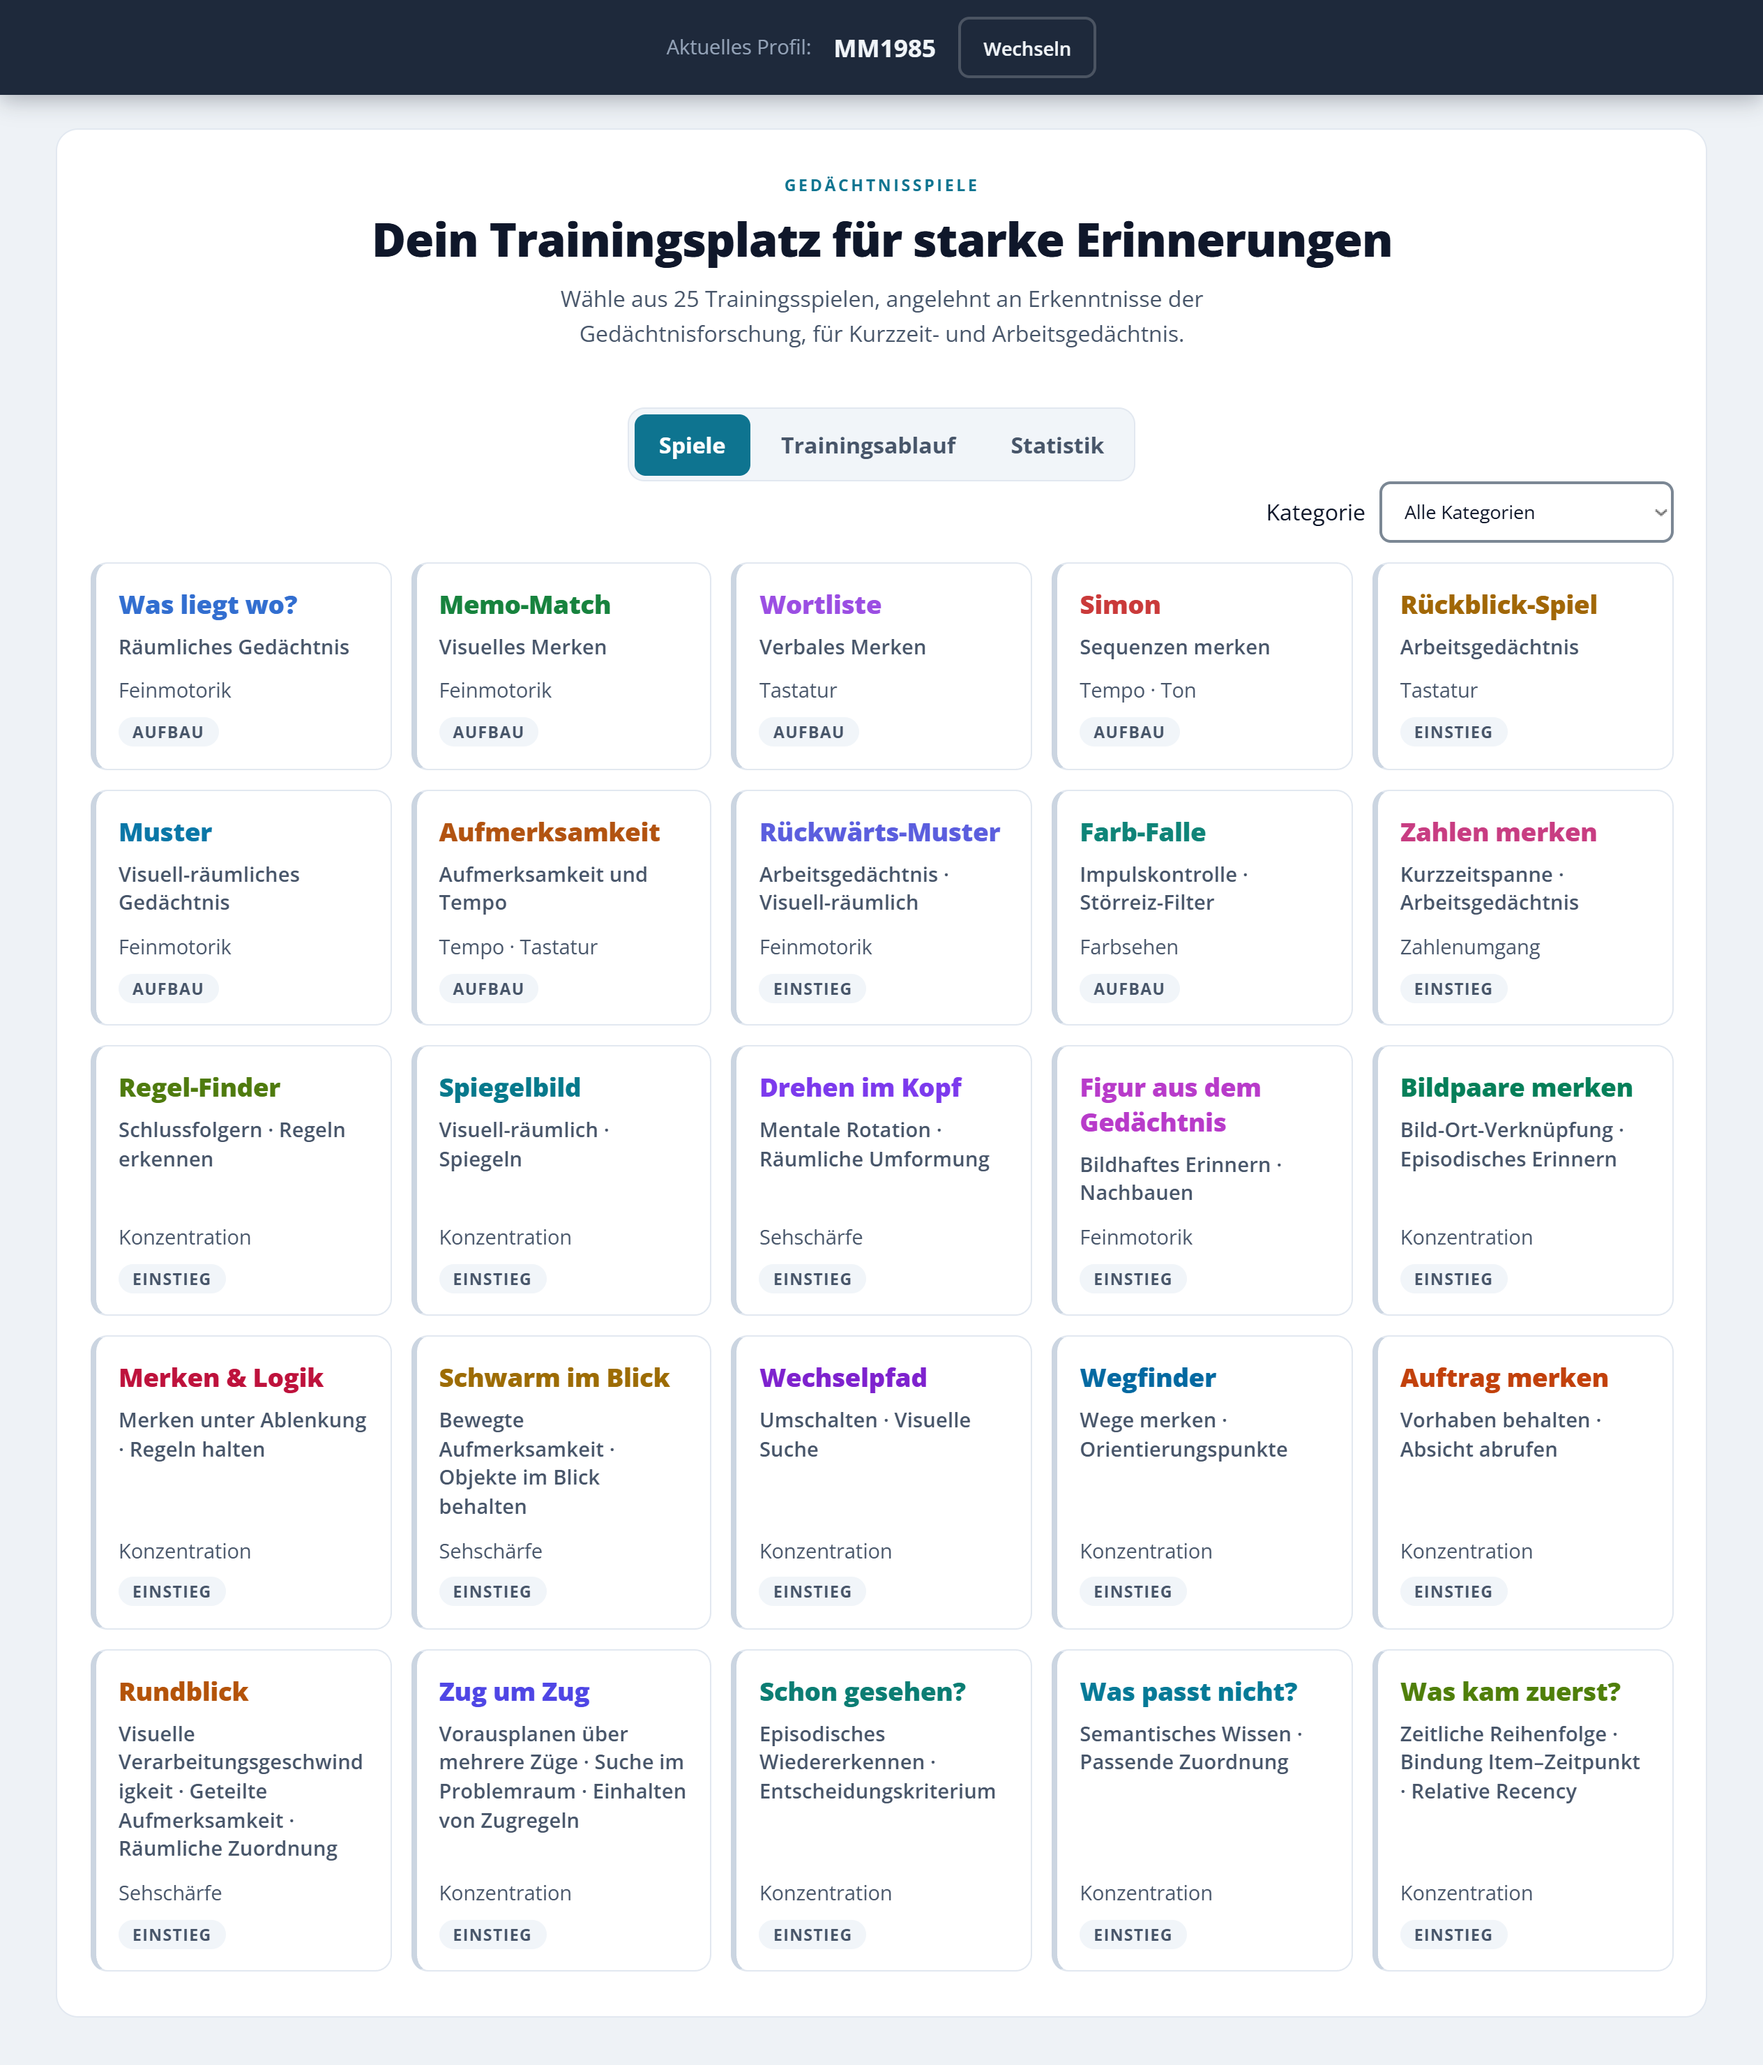
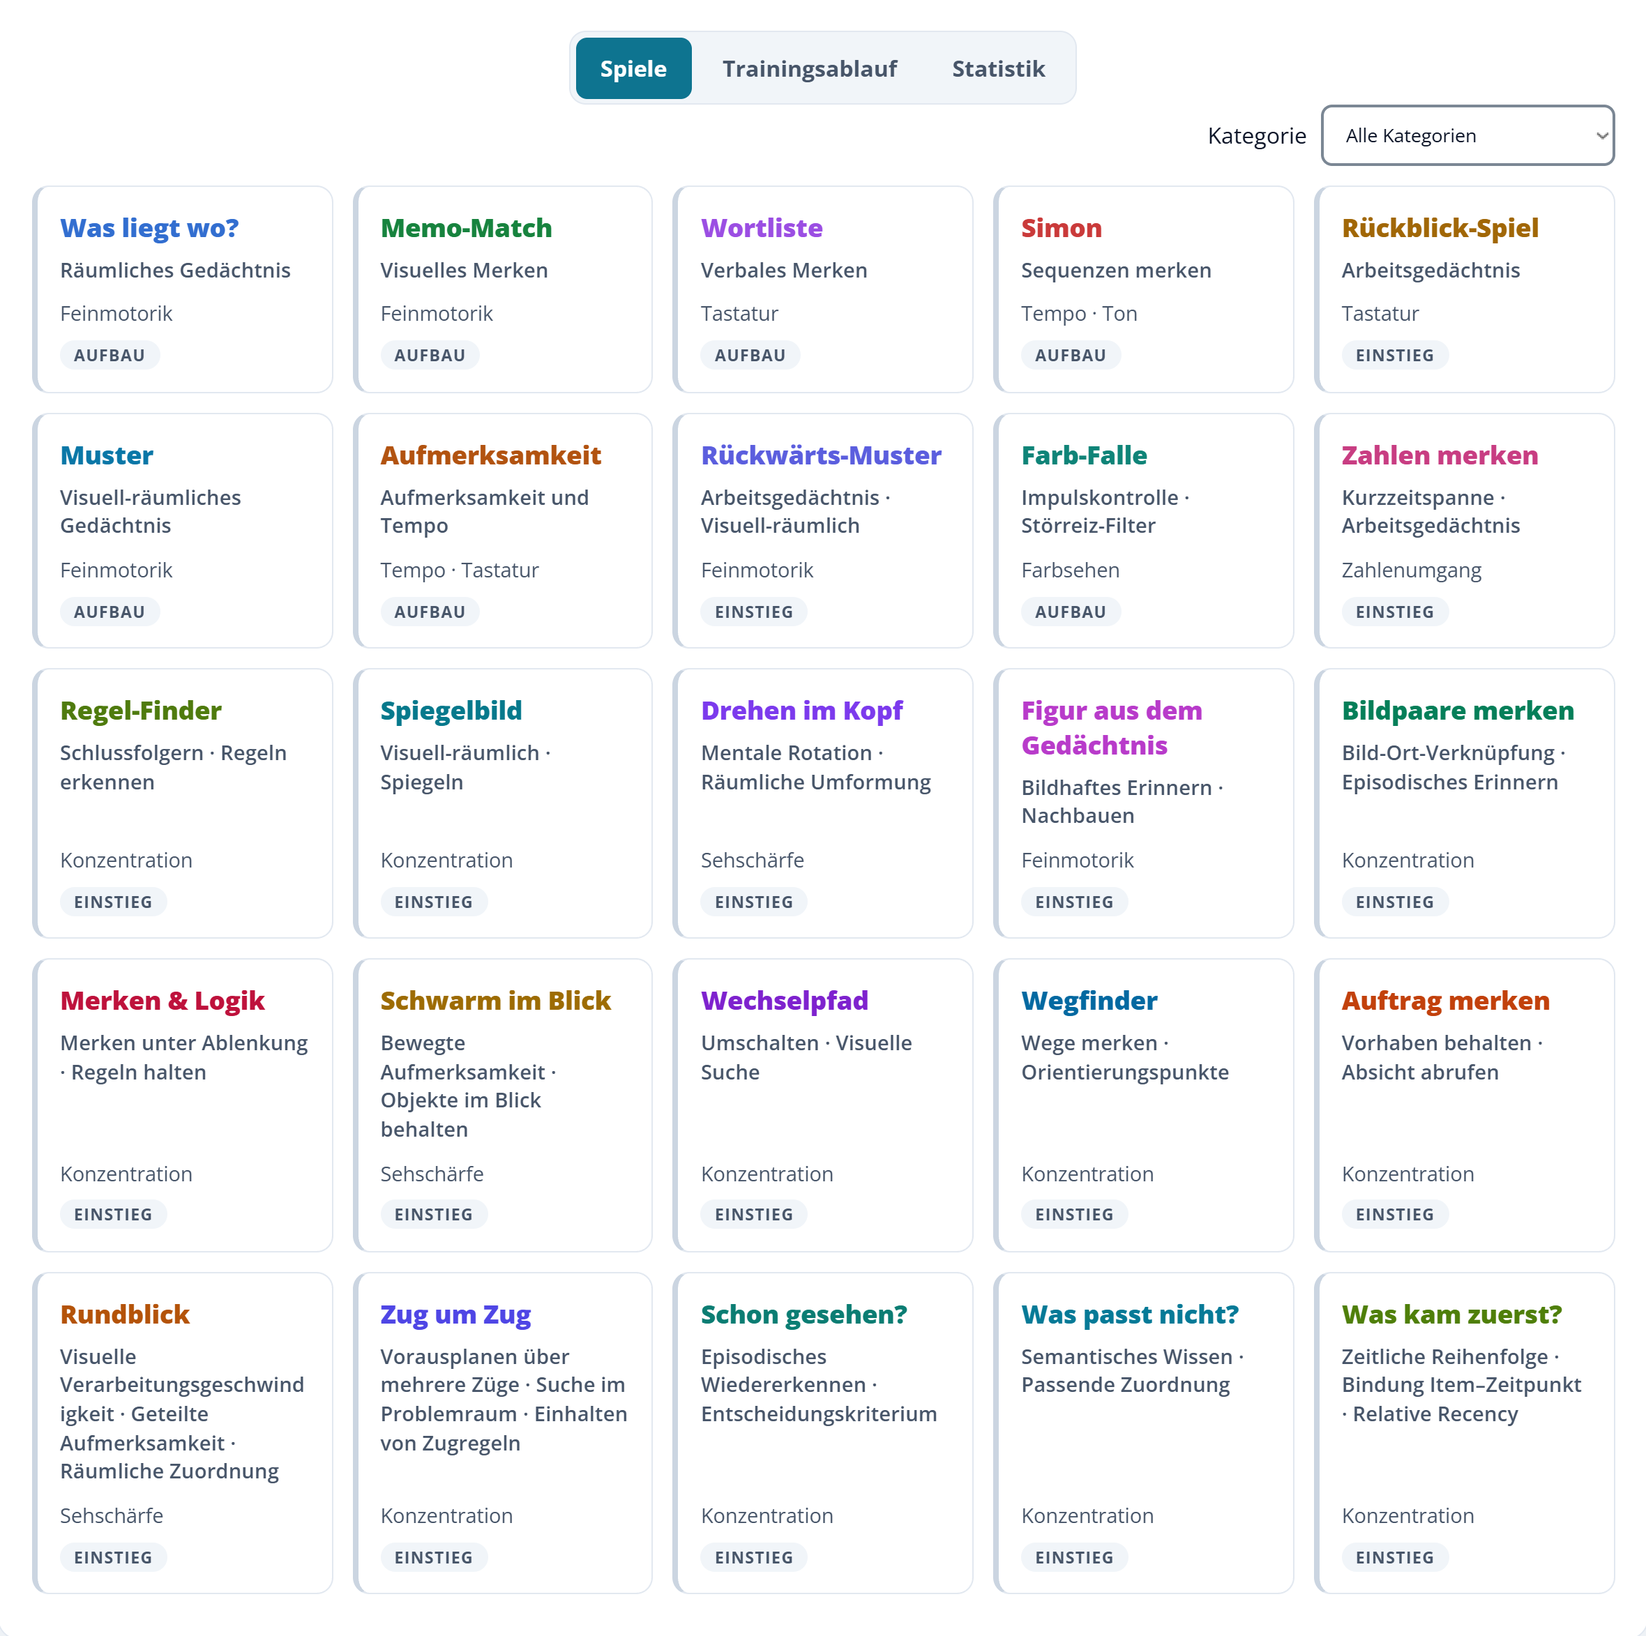
Pilot: Lesetests auf den Dienst nach S3, IP-Frist präzise, Katalogbild ohne Profil
- P13/P13b gegen den Stand nach S3: Anpassungsregel (4. Kalenderjahr),
  Ratenbegrenzer eine Stunde, Pfaderkennung in pfade.ts
- Datenschutz, Pilotabschnitt: "nur kurzzeitig" -> "spätestens eine
  Stunde nach deiner letzten Anfrage" (T1 v3, Befund RS1 Sol N1)
- app-katalog.webp auf den Übungskatalog zugeschnitten: ohne Profilleiste
  ("MM1985" wirkte wie Kürzel + Geburtsjahr) und ohne altes App-Motto

Tests und Text: Gemini 3.8 Flash (isolierte Kopie), nachgeprüft.

Claude-Session: https://claude.ai/code/session_013UXp1qRCN6pCExpjyb6o4P

Changed region(s): [[0.0, 0.0, 1.0, 0.9646], [0.0, 0.1245, 0.1547, 0.2178], [0.5258, 0.6223, 0.5568, 0.6535]]

diff --git a/src/constants.ts b/src/constants.ts
@@ -506,7 +506,7 @@ export const STATS_FEATURES: StatsFeature[] = [
    zugleich pixelgenau gleich. Die Masse stehen dabei, damit beim Nachladen
    nichts springt. */
 
-export const SHOT_KATALOG = { width: 2528, height: 2960 };
+export const SHOT_KATALOG = { width: 2360, height: 2346 };
 export const SHOT_VERLAUF = { width: 2422, height: 868 };
 export const SHOT_RADAR = { width: 2422, height: 1148 };
 export const SHOT_VORFUEHRUNG = { width: 2040, height: 1719 };
@@ -1062,11 +1062,11 @@ export const PRIVACY_SECTIONS: PrivacySection[] = [
     id: 'pilotprogramm',
     title: 'Pilotprogramm für Praxen und Einrichtungen',
     paragraphs: [
-      '**Bewerbung.** Wenn du dich über rholabs.de/pilotpartner bewirbst, verarbeiten wir den Namen deiner Praxis oder Einrichtung, die Art der Einrichtung, deine Angaben zu den Personengruppen, mit denen du arbeitest, und zum geplanten Einsatz, den Namen der Ansprechperson, ihre geschäftliche E-Mail-Adresse und, wenn du sie angibst, eine Telefonnummer für Rückfragen zur Bewerbung. Die Pflichtfelder brauchen wir, um die Bewerbung zu bearbeiten; ohne sie können wir sie nicht annehmen. Deine IP-Adresse speichern wir dabei nicht; sie wird nur kurzzeitig im Arbeitsspeicher genutzt, um massenhafte Anfragen abzuwehren. Wir erhalten eine E-Mail-Benachrichtigung, dass eine Bewerbung eingegangen ist; die Bewerbung selbst steht nicht darin. Eine automatische E-Mail an dich verschicken wir nicht. Bitte mache im Freitext keine Angaben zu einzelnen Personen, die du betreust, und keine Angaben zu Gesundheit oder Diagnosen. Enthält eine Bewerbung solche Angaben dennoch, löschen wir sie und teilen dir das mit.',
+      '**Bewerbung.** Wenn du dich über rholabs.de/pilotpartner bewirbst, verarbeiten wir den Namen deiner Praxis oder Einrichtung, die Art der Einrichtung, deine Angaben zu den Personengruppen, mit denen du arbeitest, und zum geplanten Einsatz, den Namen der Ansprechperson, ihre geschäftliche E-Mail-Adresse und, wenn du sie angibst, eine Telefonnummer für Rückfragen zur Bewerbung. Die Pflichtfelder brauchen wir, um die Bewerbung zu bearbeiten; ohne sie können wir sie nicht annehmen. Deine IP-Adresse speichern wir dabei nicht; sie wird nur im Arbeitsspeicher genutzt, um massenhafte Anfragen abzuwehren, und dort spätestens eine Stunde nach deiner letzten Anfrage verworfen. Wir erhalten eine E-Mail-Benachrichtigung, dass eine Bewerbung eingegangen ist; die Bewerbung selbst steht nicht darin. Eine automatische E-Mail an dich verschicken wir nicht. Bitte mache im Freitext keine Angaben zu einzelnen Personen, die du betreust, und keine Angaben zu Gesundheit oder Diagnosen. Enthält eine Bewerbung solche Angaben dennoch, löschen wir sie und teilen dir das mit.',
       'Rechtsgrundlage ist Art. 6 Abs. 1 lit. b DSGVO, soweit du selbst Vertragspartei werden würdest (etwa als Inhaberin oder Inhaber einer Praxis), im Übrigen Art. 6 Abs. 1 lit. f DSGVO; unser berechtigtes Interesse ist die Auswahl und Durchführung des Pilotprogramms.',
       '**Teilnahme.** Wählen wir deine Einrichtung aus, senden wir der Ansprechperson einen persönlichen Link, über den sie die Pilotbedingungen annimmt. Wir speichern dazu die Fassung der Bedingungen und deren Prüfsumme, den Zeitpunkt, die Angaben des Angebots (Einrichtung, rechtlicher Träger mit Anschrift, geplanter Pilotstart, Gerätezahl), Name, Funktion und E-Mail-Adresse der zustimmenden Person, ihre Bestätigungen, für den Träger handeln zu dürfen und dass dieser nicht als Verbraucher handelt, sowie ihre Wahl, ob sie wöchentliche Fragen per E-Mail erhalten möchte — keine IP-Adresse. Anschließend erhält sie per E-Mail eine Bestätigung mit den Pilotbedingungen. Zur Durchführung speichern wir außerdem Status, Pilotzeitraum, Lizenzschlüssel, die erste Aktivierung, organisatorische Notizen (ohne Angaben zu betreuten Personen), die vereinbarte Anpassung und ob ein Abschlussfeedback vorliegt. Für die Pilotlizenz gelten die Angaben im Abschnitt „Lizenzaktivierung der Anwendung“.',
       'Rechtsgrundlage ist Art. 6 Abs. 1 lit. b DSGVO, soweit du selbst Vertragspartei bist. Für Beschäftigte und andere Ansprechpersonen eines teilnehmenden Trägers ist es Art. 6 Abs. 1 lit. f DSGVO; unsere berechtigten Interessen sind die Kommunikation mit dem Träger, die Durchführung des Pilotprogramms und der Nachweis des Vertragsschlusses.',
-      '**Aufruf der Pilotseiten.** Die Pilotseite lädt nichts von Dritten nach. Mit unserem Auslieferungsdienst verbindet sich dein Browser, sobald du die Bewerbung absendest. Die Seite zum Bestätigen der Pilotbedingungen ruft den Dienst außerdem schon beim Öffnen auf, um das Angebot anzuzeigen; dabei geht der persönliche Link als Parameter mit, wird aber weder protokolliert noch an Dritte weitergegeben. Der Dienst hält auch dabei deine IP-Adresse nur kurzzeitig im Arbeitsspeicher, um zu viele Anfragen abzuweisen.',
+      '**Aufruf der Pilotseiten.** Die Pilotseite lädt nichts von Dritten nach. Mit unserem Auslieferungsdienst verbindet sich dein Browser, sobald du die Bewerbung absendest. Die Seite zum Bestätigen der Pilotbedingungen ruft den Dienst außerdem schon beim Öffnen auf, um das Angebot anzuzeigen; dabei geht der persönliche Link als Parameter mit, wird aber weder protokolliert noch an Dritte weitergegeben. Der Dienst hält auch dabei deine IP-Adresse nur im Arbeitsspeicher, um zu viele Anfragen abzuweisen, und verwirft sie dort spätestens eine Stunde nach deiner letzten Anfrage.',
       '**Kommunikation.** Einführung, Rückfragen und Feedback laufen per E-Mail (siehe „E-Mail-Kommunikation“), Telefon oder Videokonferenz. Wöchentliche Fragen per E-Mail schicken wir nur, wenn du das bei der Annahme gewählt hast; du kannst das jederzeit abbestellen. Für Videokonferenzen nutzen wir bevorzugt das Werkzeug deiner Einrichtung; dabei verarbeitet dessen Anbieter Namen, Kontakt- und Verbindungsdaten nach den Regeln deiner Einrichtung. Aufzeichnungen und automatische Zusammenfassungen machen wir nicht. Trainingsdaten der von dir betreuten Personen erhalten wir nicht: Die Software speichert sie nur auf deinen Geräten, und wir bitten dich, uns keine solchen Daten zu zeigen oder zu senden. Feedback-Mails und Notizen zum Pilot bewahren wir zusammen mit den übrigen Angaben auf und löschen sie mit ihnen.',
       '**Empfänger.** Die Angaben liegen auf unserem Lizenzserver bei der Hetzner Online GmbH in Deutschland, die als unser Auftragsverarbeiter tätig ist. Für E-Mails gilt der Abschnitt „E-Mail-Kommunikation“. Eine weitere Weitergabe findet nicht statt.',
       '**Speicherdauer.** Ein automatischer täglicher Lauf auf dem Server löscht abgelehnte Bewerbungen sechs Monate nach der Entscheidung und alle Bewerbungen, aus denen kein Pilot wird, spätestens zwölf Monate nach ihrem Eingang. Nach dem Ende eines Pilotprogramms löscht er den Freitext zum geplanten Einsatz und die Telefonnummer nach drei Monaten und alle übrigen Angaben einschließlich des Zustimmungsnachweises mit Ablauf des dritten Kalenderjahres nach dem Jahr, in dem das Pilotprogramm endet; wurde eine Pilotpartner-Anpassung vereinbart, ein Jahr später. Diese Frist entspricht der regelmäßigen Verjährung, für die wir den Vertragsschluss belegen können müssen. Sicherungskopien des Servers bewahren wir höchstens 30 Tage auf; spielen wir eine Sicherung zurück, löscht der nächste tägliche Lauf fällige Angaben erneut. Bearbeitungen in der Pilotverwaltung protokolliert der Lizenzdienst nur mit Zeitpunkt, Benutzerkennung, Aufruf und Ergebnis – ohne Inhalte – und löscht diese Einträge nach 90 Tagen; den Versand von E-Mails protokolliert er ohne Empfängeradresse, nur mit Bestell- oder Vorgangsnummer und Art der Nachricht, im Systemprotokoll des Servers, das Einträge nach 30 Tagen löscht. Auf Verlangen löschen wir früher, soweit wir die Angaben nicht zur Geltendmachung, Ausübung oder Verteidigung von Rechtsansprüchen benötigen (Art. 17 Abs. 3 lit. e DSGVO). Deine Rechte, einschließlich des Widerspruchsrechts, stehen im Abschnitt „Deine Rechte“.',
